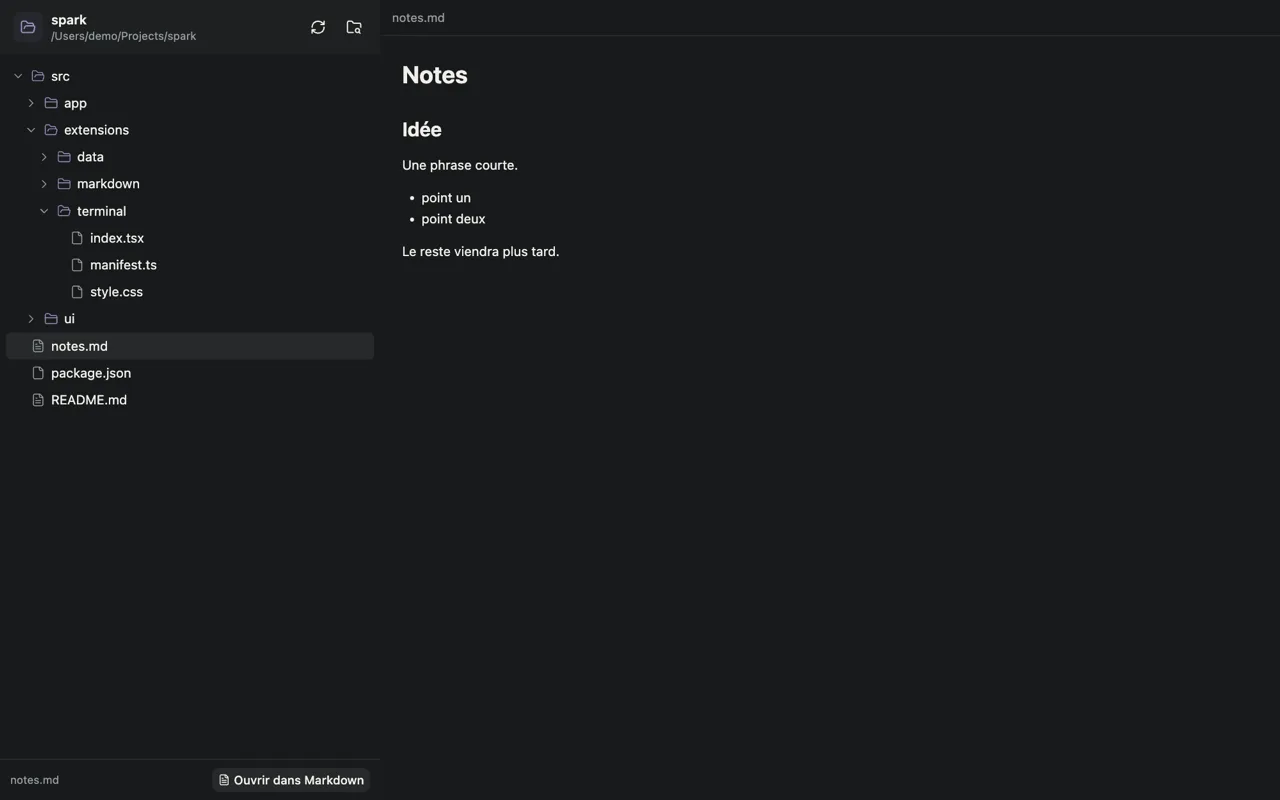
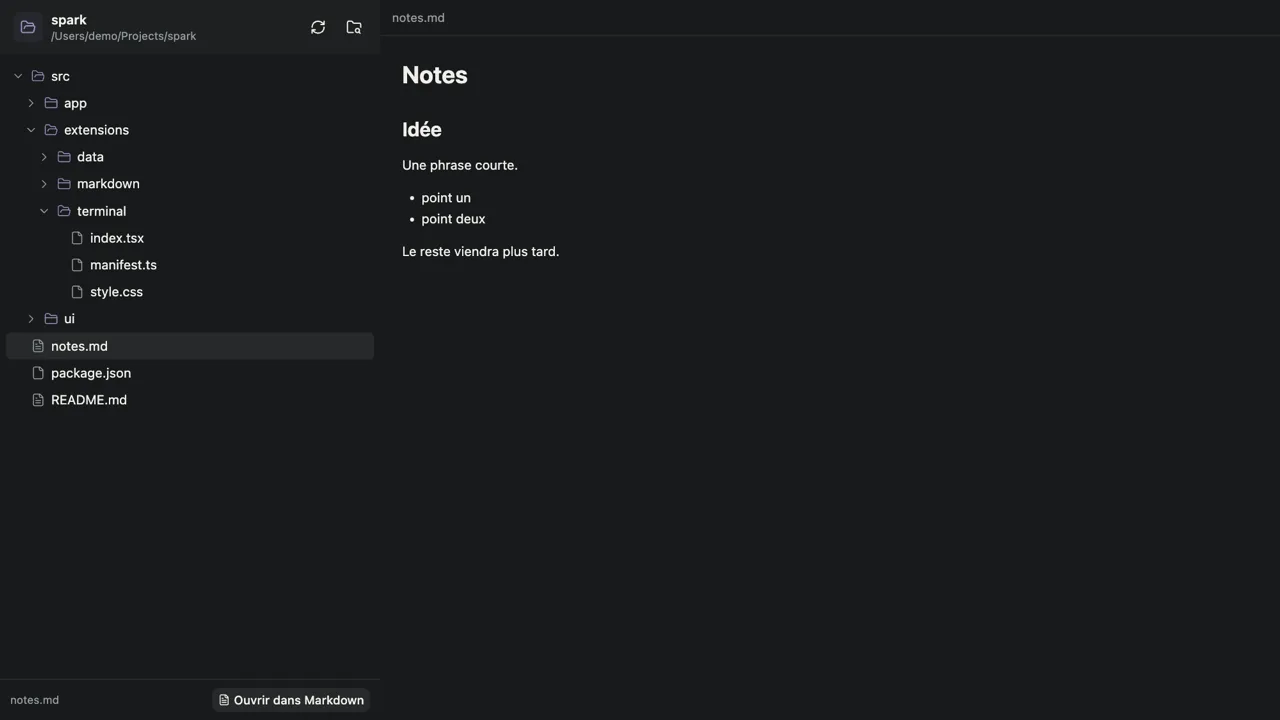
feat(store): add 16:9 captures and a two-pane gallery

diff --git a/src/ui/store/page.tsx b/src/ui/store/page.tsx
@@ -206,13 +206,37 @@ function ScreenshotGallery({ manifest }: { manifest: Manifest }) {
       </div>
     );
 
+  if (screenshots.length === 2)
+    return (
+      <section
+        className="store-gallery"
+        aria-label={`Aperçus de ${manifest.name}`}
+      >
+        <div className="store-gallery-head">
+          <span className="store-gallery-label">Aperçus</span>
+        </div>
+        <div className="store-gallery-split">
+          {screenshots.map((source, index) => (
+            <figure className="store-gallery-item" key={source}>
+              <img
+                src={source}
+                alt={`Aperçu ${index + 1} de ${manifest.name}`}
+                loading={index === 0 ? "eager" : "lazy"}
+                draggable={false}
+              />
+            </figure>
+          ))}
+        </div>
+      </section>
+    );
+
   return (
     <section className="store-gallery" aria-label={`Aperçus de ${manifest.name}`}>
       <div className="store-gallery-head">
         <span className="store-gallery-label">
           {screenshots.length > 1 ? "Aperçus" : "Aperçu"}
         </span>
-        {screenshots.length > 1 && (
+        {screenshots.length > 2 && (
           <div className="store-gallery-arrows">
             <button
               type="button"

diff --git a/src/extensions/markdown/manifest.ts b/src/extensions/markdown/manifest.ts
@@ -1,5 +1,6 @@
 import { FileText } from "lucide-react";
-import screenshot from "./media/markdown.webp";
+import editorShot from "./media/markdown-editor.webp";
+import previewShot from "./media/markdown-preview.webp";
 import type { Manifest } from "../../sdk/index.ts";
 import { SPECTRUM } from "../../shared/brand/index.tsx";
 
@@ -20,6 +21,6 @@ export default {
     "Édite un fichier Markdown et affiche son rendu dans une tuile voisine.",
   description:
     "L’éditeur lit et écrit directement le fichier choisi. L’aperçu se met à jour pendant la frappe. Une confirmation est demandée avant de fermer un document modifié.",
-  screenshots: [screenshot],
+  screenshots: [editorShot, previewShot],
   category: "Écriture",
 } satisfies Manifest;

diff --git a/src/extensions/data/manifest.ts b/src/extensions/data/manifest.ts
@@ -1,5 +1,6 @@
 import { Table2 } from "lucide-react";
-import screenshot from "./media/data.webp";
+import tableShot from "./media/data-table.webp";
+import chartShot from "./media/data-chart.webp";
 import type { Manifest } from "../../sdk/index.ts";
 import { SPECTRUM } from "../../shared/brand/index.tsx";
 
@@ -20,6 +21,6 @@ export default {
     "Crée des tableaux, importe des CSV et affiche des graphiques.",
   description:
     "Les tableaux acceptent le copier-coller TSV et les fichiers CSV. Les graphiques se lient à un tableau. Les données restent dans l’espace et sont exposées aux agents par des actions bornées.",
-  screenshots: [screenshot],
+  screenshots: [tableShot, chartShot],
   category: "Données",
 } satisfies Manifest;

diff --git a/src/extensions/openalex/manifest.ts b/src/extensions/openalex/manifest.ts
@@ -1,5 +1,6 @@
 import { BookOpen } from "lucide-react";
-import screenshot from "./media/openalex.webp";
+import searchShot from "./media/openalex-search.webp";
+import workShot from "./media/openalex-work.webp";
 import type { Manifest } from "../../sdk/index.ts";
 import { SPECTRUM } from "../../shared/brand/index.tsx";
 
@@ -20,6 +21,6 @@ export default {
     "Cherche des travaux OpenAlex et ouvre les PDF libres dans l’aperçu.",
   description:
     "La recherche interroge l’API OpenAlex. Les résultats affichent les auteurs, l’année et le DOI. Quand un PDF libre est disponible, il s’ouvre dans l’aperçu.",
-  screenshots: [screenshot],
+  screenshots: [searchShot, workShot],
   category: "Recherche",
 } satisfies Manifest;

diff --git a/src/ui/store/style.css b/src/ui/store/style.css
@@ -711,8 +711,18 @@
 .store-gallery-item img {
   display: block;
   width: 100%;
-  aspect-ratio: 16 / 10;
+  aspect-ratio: 16 / 9;
   object-fit: cover;
+}
+
+.store-gallery-split {
+  display: grid;
+  grid-template-columns: repeat(2, minmax(0, 1fr));
+  gap: 10px;
+}
+
+.store-gallery-split .store-gallery-item {
+  width: 100%;
 }
 
 .store-gallery-empty {
@@ -971,6 +981,12 @@
 @media (max-width: 980px) {
   .store-grid {
     grid-template-columns: repeat(auto-fill, minmax(280px, 1fr));
+  }
+}
+
+@media (max-width: 900px) {
+  .store-gallery-split {
+    grid-template-columns: 1fr;
   }
 }
 
